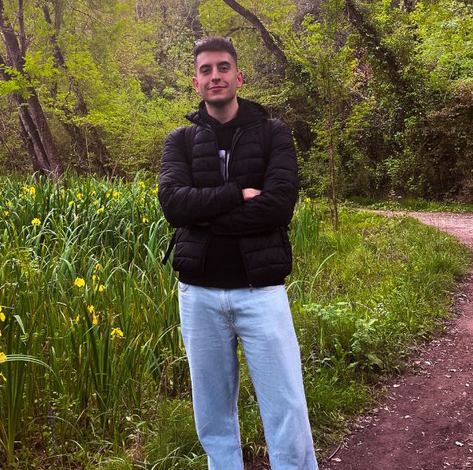
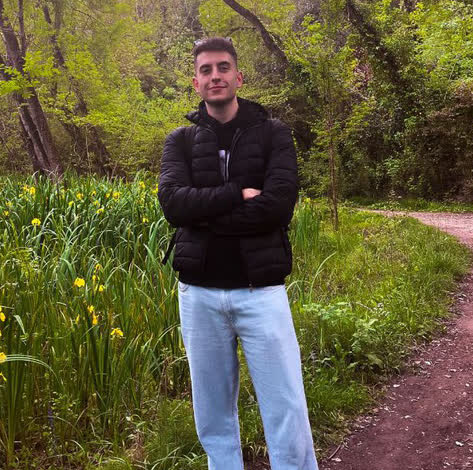
reduce images size

diff --git a/src/views/Donation.vue b/src/views/Donation.vue
@@ -18,8 +18,8 @@
 </template>
 
 <script setup>
-import bmc from "@/assets/bmc_qr.png";
-import revolut from "@/assets/revolut.png";
+import bmc from "@/assets/bmc_qr.jpg";
+import revolut from "@/assets/revolut.jpg";
 </script>
 
 <style lang="scss" scoped>
